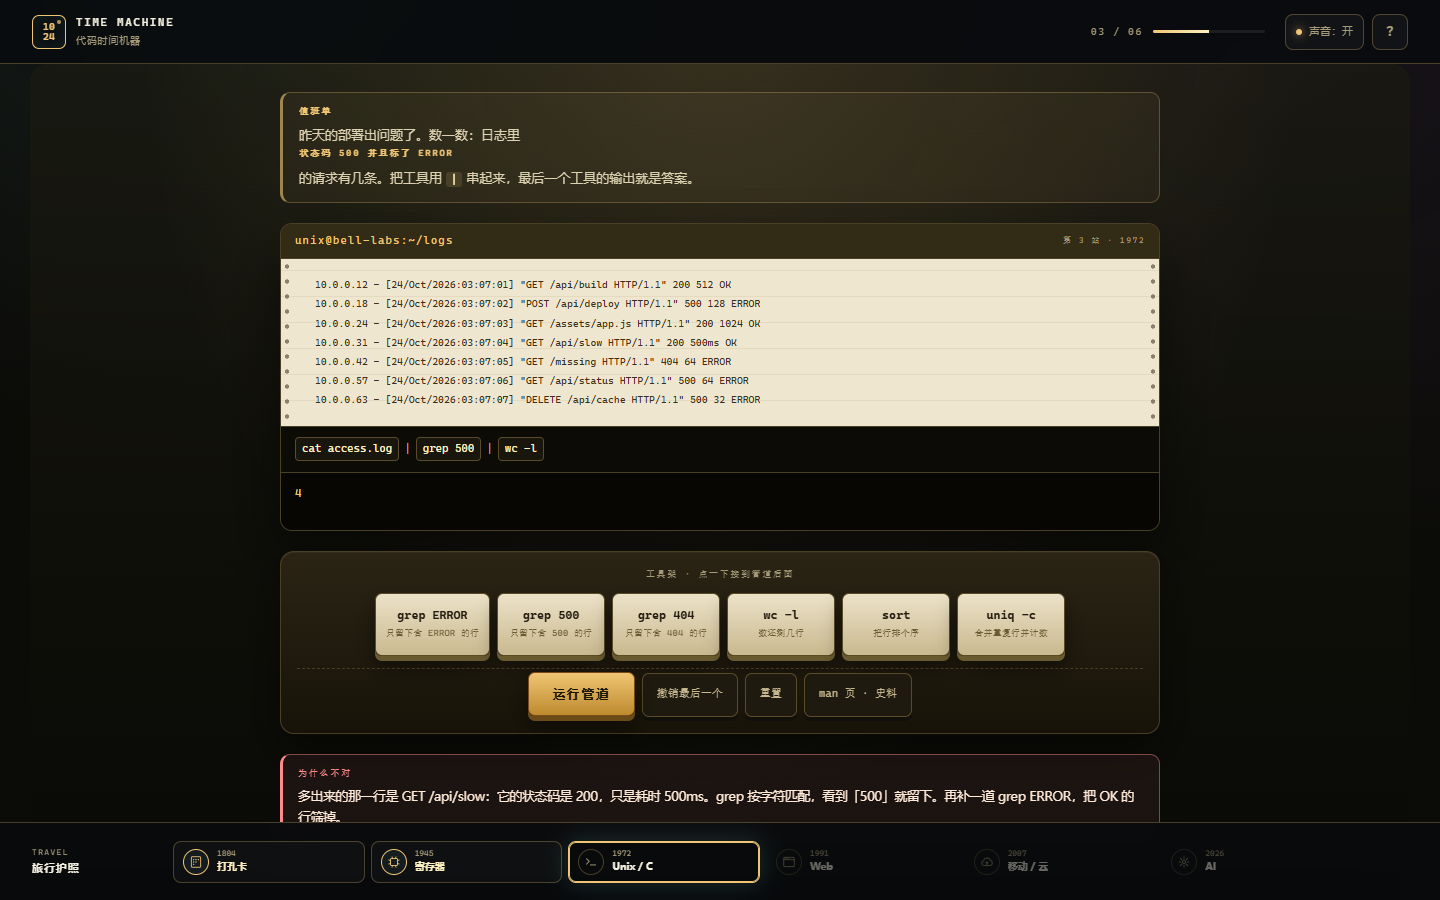
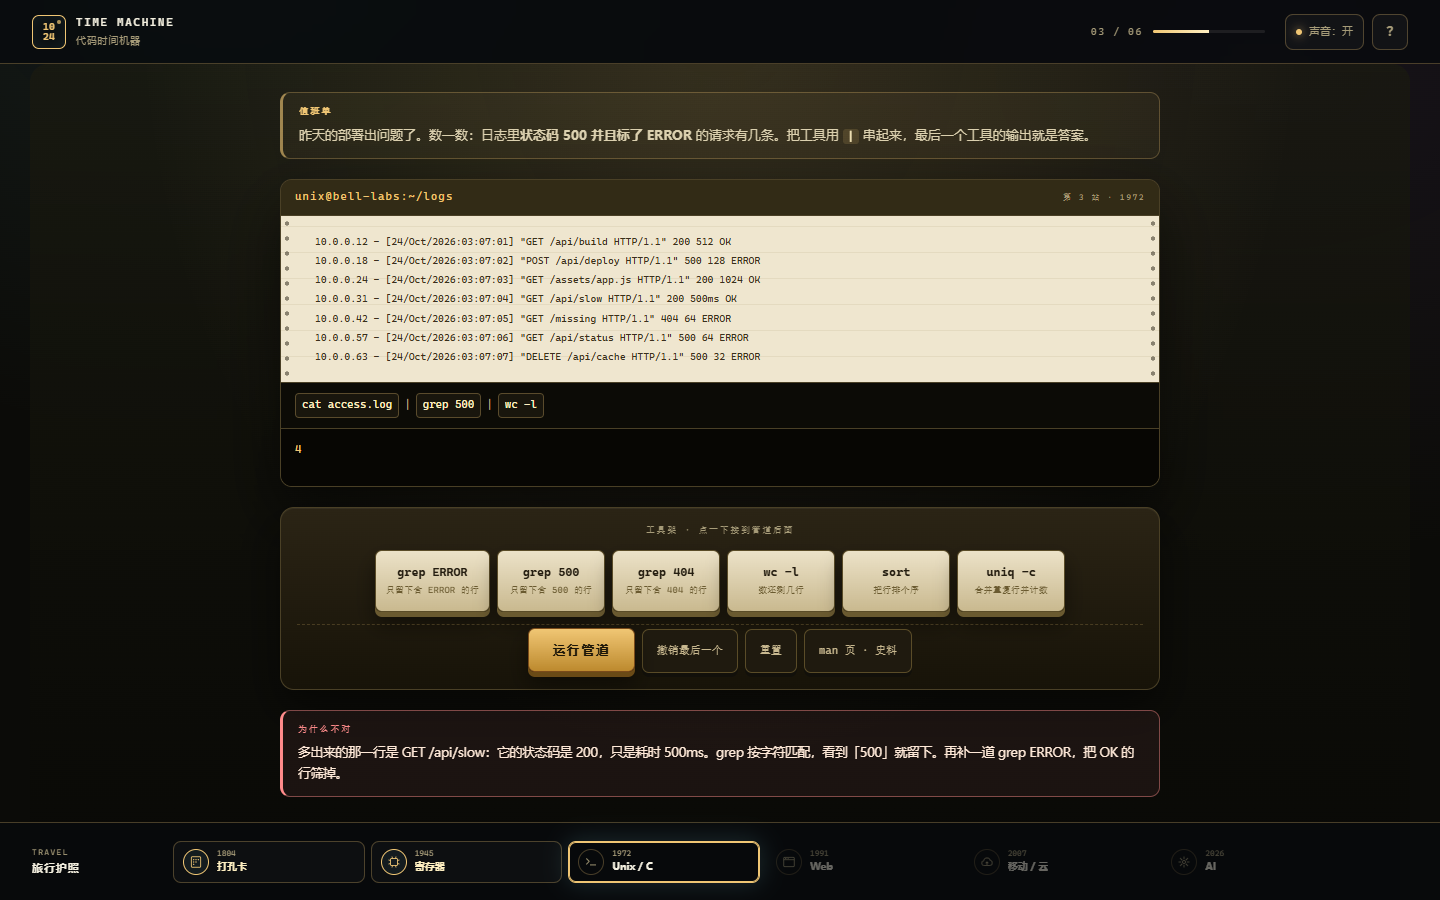
fix: make the 1972 brief readable and the AI regenerate actually regenerate
The 值班单 label rule applied to every <b> inside it, so the inline
"状态码 500 并且标了 ERROR" broke onto its own line.

"再生成一次" re-drew the same four steps whenever the random seed happened
to land on the same variant, so the button lied about what it does. Each
goal now carries two real plans and the button walks them in order; the
plan footer says which variant you are looking at.

Changed region(s): [[0.1875, 0.1556, 0.8125, 0.5289], [0.1875, 0.56, 0.8125, 0.9333], [0.3438, 0.1244, 0.75, 0.1556]]

diff --git a/docs/index.html b/docs/index.html
@@ -2128,7 +2128,7 @@ kbd {
   background: rgba(108, 255, 158, 0.04);
 }
 
-.machine-brief b {
+.machine-brief > b {
   display: block;
   margin-bottom: 7px;
   color: #6cff9e;
@@ -2764,7 +2764,7 @@ kbd {
   background: rgba(240, 198, 116, 0.05);
 }
 
-.unix-brief b {
+.unix-brief > b {
   display: block;
   margin-bottom: 5px;
   color: #f0c674;
@@ -7098,31 +7098,55 @@ kbd {
     tool: {
       label: "做工具",
       defaultPrompt: "做一个帮室友记外卖钱的小工具",
-      steps: (prompt) => [
-        `先写一句验收标准：「${prompt}」做到什么算完成。`,
-        "只做最小闭环：一个入口、一个核心动作、一个结果页。",
-        "用 localStorage 存数据，先不接后端；找 3 个真实用户试用。",
-        "在 1024 之前上线，把反馈写进下一版。",
+      plans: [
+        (prompt) => [
+          `先写一句验收标准：「${prompt}」做到什么算完成。`,
+          "只做最小闭环：一个入口、一个核心动作、一个结果页。",
+          "用 localStorage 存数据，先不接后端；找 3 个真实用户试用。",
+          "在 1024 之前上线，把反馈写进下一版。",
+        ],
+        (prompt) => [
+          `先找出最烦人的那一步：「${prompt}」只帮人省这一步，别的都不做。`,
+          "界面砍到一屏：一个输入、一个按钮、一个结果。",
+          "数据先存本地，导出和同步留到下一版。",
+          "上线前让 1 个人当面用一次，记下他卡住的位置。",
+        ],
       ],
     },
     bug: {
       label: "修 Bug",
       defaultPrompt: "修一个只在周五出现的 Bug",
-      steps: (prompt) => [
-        `先复现：把「${prompt}」的触发条件缩成 3 步以内。`,
-        "再定位：从第一个异常开始看，不要从最后一个报错开始。",
-        "只改一处，补一条回归测试，再跑一遍全链路。",
-        "把这次 Bug 写成团队检查项，让它只发生一次。",
+      plans: [
+        (prompt) => [
+          `先复现：把「${prompt}」的触发条件缩成 3 步以内。`,
+          "再定位：从第一个异常开始看，不要从最后一个报错开始。",
+          "只改一处，补一条回归测试，再跑一遍全链路。",
+          "把这次 Bug 写成团队检查项，让它只发生一次。",
+        ],
+        (prompt) => [
+          `先写下你的假设：「${prompt}」最可能坏在哪一步，然后想办法证明它是错的。`,
+          "加一行日志比猜一小时有用 —— 先把现场抓下来。",
+          "只做最小改动，别顺手重构；重构另开一次提交。",
+          "补一句“下次怎样更快发现它”，写进检查清单。",
+        ],
       ],
     },
     story: {
       label: "讲故事",
       defaultPrompt: "讲一个关于 1024 的故事",
-      steps: (prompt) => [
-        `先定一句话：你想让谁听见「${prompt}」。`,
-        "搭结构：开头 3 秒、一个转折、一个结尾。",
-        "用具体细节替换形容词；删掉第一段的一半。",
-        "发布后读 10 条评论，再写下一版。",
+      plans: [
+        (prompt) => [
+          `先定一句话：你想让谁听见「${prompt}」。`,
+          "搭结构：开头 3 秒、一个转折、一个结尾。",
+          "用具体细节替换形容词；删掉第一段的一半。",
+          "发布后读 10 条评论，再写下一版。",
+        ],
+        (prompt) => [
+          `先选一个场景：一个时间、一个地点、一个人 ——「${prompt}」从这里开始。`,
+          "开头别解释背景，先给一个动作。",
+          "把最动人的那个数字或物件留到结尾。",
+          "念出声改一遍，拗口的句子当场删掉。",
+        ],
       ],
     },
   };
@@ -7241,14 +7265,17 @@ kbd {
 
   const generatePlan = (goal, style, prompt, seed, regenCount) => {
     const goalData = GOALS[goal] || GOALS.tool;
+    const variant = regenCount % goalData.plans.length;
     return {
       goal,
       style,
       prompt,
       seed,
       regenCount,
+      variant,
+      variants: goalData.plans.length,
       planTitle: `你的 Build：${prompt}`,
-      steps: goalData.steps(prompt),
+      steps: goalData.plans[variant](prompt),
     };
   };
 
@@ -7366,7 +7393,7 @@ kbd {
             (step, index) =>
               `<div class="plan-step"><span class="step-num">0${index + 1}</span><span>${CTM.utils.escapeHtml(step)}</span></div>`
           )
-          .join("")}<div class="plan-foot">本地模板生成 · 可“再生成一次”或采纳</div>`);
+          .join("")}<div class="plan-foot">本地模板生成 · 方案 ${local.generated.variant + 1}/${local.generated.variants} · 「再生成一次」会换一套做法</div>`);
         planEl.classList.add("is-plan");
         renderPoster(local.generated);
         adoptBtn.disabled = false;

diff --git a/js/era6-ai.js b/js/era6-ai.js
@@ -11,31 +11,55 @@
     tool: {
       label: "做工具",
       defaultPrompt: "做一个帮室友记外卖钱的小工具",
-      steps: (prompt) => [
-        `先写一句验收标准：「${prompt}」做到什么算完成。`,
-        "只做最小闭环：一个入口、一个核心动作、一个结果页。",
-        "用 localStorage 存数据，先不接后端；找 3 个真实用户试用。",
-        "在 1024 之前上线，把反馈写进下一版。",
+      plans: [
+        (prompt) => [
+          `先写一句验收标准：「${prompt}」做到什么算完成。`,
+          "只做最小闭环：一个入口、一个核心动作、一个结果页。",
+          "用 localStorage 存数据，先不接后端；找 3 个真实用户试用。",
+          "在 1024 之前上线，把反馈写进下一版。",
+        ],
+        (prompt) => [
+          `先找出最烦人的那一步：「${prompt}」只帮人省这一步，别的都不做。`,
+          "界面砍到一屏：一个输入、一个按钮、一个结果。",
+          "数据先存本地，导出和同步留到下一版。",
+          "上线前让 1 个人当面用一次，记下他卡住的位置。",
+        ],
       ],
     },
     bug: {
       label: "修 Bug",
       defaultPrompt: "修一个只在周五出现的 Bug",
-      steps: (prompt) => [
-        `先复现：把「${prompt}」的触发条件缩成 3 步以内。`,
-        "再定位：从第一个异常开始看，不要从最后一个报错开始。",
-        "只改一处，补一条回归测试，再跑一遍全链路。",
-        "把这次 Bug 写成团队检查项，让它只发生一次。",
+      plans: [
+        (prompt) => [
+          `先复现：把「${prompt}」的触发条件缩成 3 步以内。`,
+          "再定位：从第一个异常开始看，不要从最后一个报错开始。",
+          "只改一处，补一条回归测试，再跑一遍全链路。",
+          "把这次 Bug 写成团队检查项，让它只发生一次。",
+        ],
+        (prompt) => [
+          `先写下你的假设：「${prompt}」最可能坏在哪一步，然后想办法证明它是错的。`,
+          "加一行日志比猜一小时有用 —— 先把现场抓下来。",
+          "只做最小改动，别顺手重构；重构另开一次提交。",
+          "补一句“下次怎样更快发现它”，写进检查清单。",
+        ],
       ],
     },
     story: {
       label: "讲故事",
       defaultPrompt: "讲一个关于 1024 的故事",
-      steps: (prompt) => [
-        `先定一句话：你想让谁听见「${prompt}」。`,
-        "搭结构：开头 3 秒、一个转折、一个结尾。",
-        "用具体细节替换形容词；删掉第一段的一半。",
-        "发布后读 10 条评论，再写下一版。",
+      plans: [
+        (prompt) => [
+          `先定一句话：你想让谁听见「${prompt}」。`,
+          "搭结构：开头 3 秒、一个转折、一个结尾。",
+          "用具体细节替换形容词；删掉第一段的一半。",
+          "发布后读 10 条评论，再写下一版。",
+        ],
+        (prompt) => [
+          `先选一个场景：一个时间、一个地点、一个人 ——「${prompt}」从这里开始。`,
+          "开头别解释背景，先给一个动作。",
+          "把最动人的那个数字或物件留到结尾。",
+          "念出声改一遍，拗口的句子当场删掉。",
+        ],
       ],
     },
   };
@@ -154,14 +178,17 @@
 
   const generatePlan = (goal, style, prompt, seed, regenCount) => {
     const goalData = GOALS[goal] || GOALS.tool;
+    const variant = regenCount % goalData.plans.length;
     return {
       goal,
       style,
       prompt,
       seed,
       regenCount,
+      variant,
+      variants: goalData.plans.length,
       planTitle: `你的 Build：${prompt}`,
-      steps: goalData.steps(prompt),
+      steps: goalData.plans[variant](prompt),
     };
   };
 
@@ -279,7 +306,7 @@
             (step, index) =>
               `<div class="plan-step"><span class="step-num">0${index + 1}</span><span>${CTM.utils.escapeHtml(step)}</span></div>`
           )
-          .join("")}<div class="plan-foot">本地模板生成 · 可“再生成一次”或采纳</div>`);
+          .join("")}<div class="plan-foot">本地模板生成 · 方案 ${local.generated.variant + 1}/${local.generated.variants} · 「再生成一次」会换一套做法</div>`);
         planEl.classList.add("is-plan");
         renderPoster(local.generated);
         adoptBtn.disabled = false;

diff --git a/styles.css b/styles.css
@@ -2118,7 +2118,7 @@ kbd {
   background: rgba(108, 255, 158, 0.04);
 }
 
-.machine-brief b {
+.machine-brief > b {
   display: block;
   margin-bottom: 7px;
   color: #6cff9e;
@@ -2754,7 +2754,7 @@ kbd {
   background: rgba(240, 198, 116, 0.05);
 }
 
-.unix-brief b {
+.unix-brief > b {
   display: block;
   margin-bottom: 5px;
   color: #f0c674;
